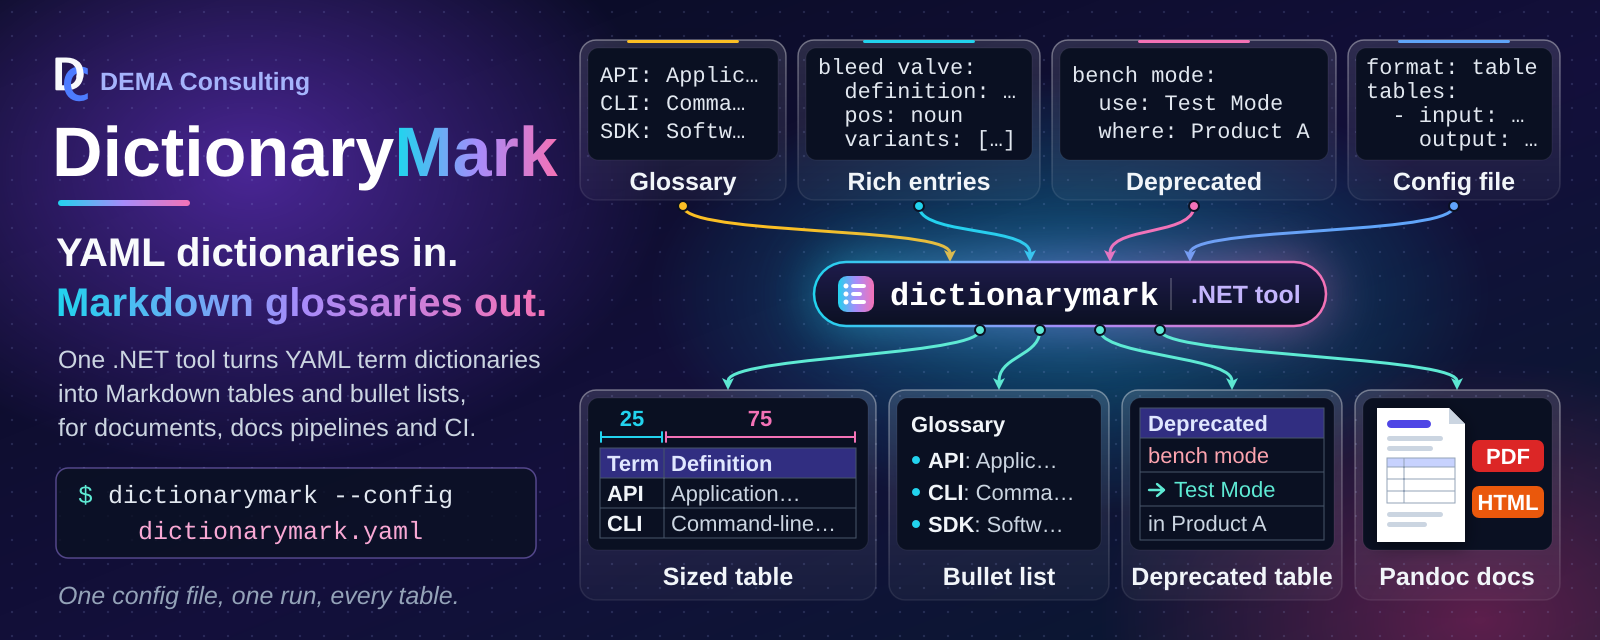
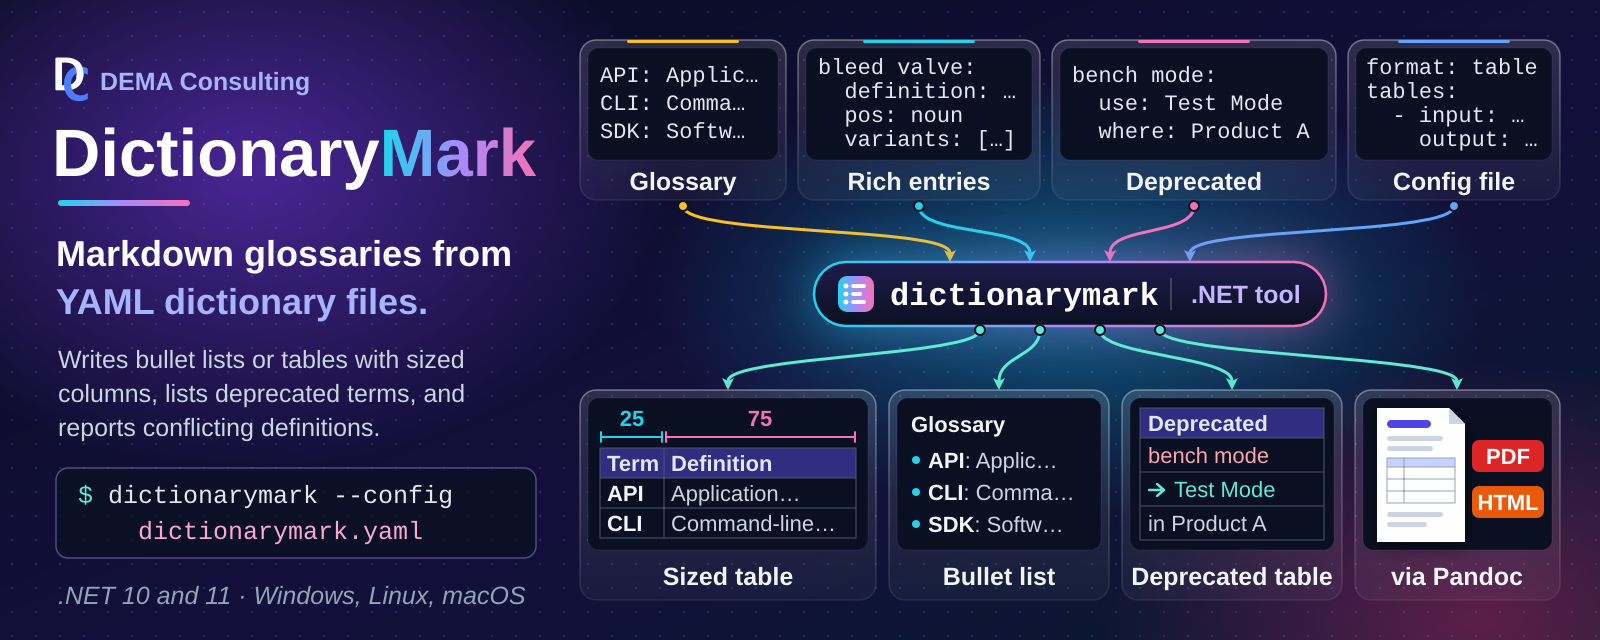
Sync agents/template and calm the README hero (#84)
* Sync shared agents, skills, and standards from Agents main

Includes docdown skill wording (#60), orchestrator Pull Requests section and planning Feasibility and Delivery (#62), SysML2 one-package-per-file guidance (#64), and the AGENTS.md Project Scripts section with fix.ps1/lint.ps1 removed from the protected list.

* Sync template: script CUSTOMIZATION headers, yamlfix comment setting, tool pins

- build/lint/fix.ps1: CUSTOMIZATION header replaces the old MODIFICATION POLICY text (template #63); script steps unchanged.
- .yamlfix.toml: comments_require_starting_space = false with the template notes (template #61, #59).
- .yamllint.yaml: no-limit line-length comment (template #59).
- LintMark 0.1.0-beta.3 and TextLint 0.1.0-beta.5 (template #59).

* Calm the README hero and make it the H1

Plain tagline 'Markdown glossaries from / YAML dictionary files.' (36px, solid), factual body and footnote, gradient kept only on 'Mark' and the underline, adaptive 67px wordmark, Pandoc card labelled 'via Pandoc' as downstream. README now starts with the hero as the H1 and the badges under it (template #66).

* Record the legacy SysML2 package layout as a standards exception

---------

diff --git a/.github/standards/sysml2-modeling.md b/.github/standards/sysml2-modeling.md
@@ -31,15 +31,15 @@ docs/sysml2/
 ├── common/
 │   └── software-items.sysml           # shared SoftwareItemMetadata::SoftwareInfo metadata def
 ├── model/
-│   ├── {system-name}.sysml            # system-level part def only (no subsystems/units inline)
+│   ├── {system-name}.sysml            # package {SystemName}; system-level part def only (no subsystems/units inline)
 │   ├── {system-name}/
-│   │   ├── {subsystem-name}.sysml     # subsystem part def; nests further for sub-subsystems
+│   │   ├── {subsystem-name}.sysml     # package {SystemName}_{SubsystemName}Subsystem; nests further for sub-subsystems
 │   │   └── {subsystem-name}/
-│   │       └── {unit-name}.sysml      # one file per unit
-│   ├── ots.sysml                      # OTS dependency parts (optional; if OTS items exist)
-│   └── shared.sysml                   # Shared Package parts (optional; if Shared Packages exist)
+│   │       └── {unit-name}.sysml      # package {SystemName}_{UnitName}; one file per unit
+│   ├── ots.sysml                      # package OtsDependencies: OTS parts (optional; if OTS items exist)
+│   └── shared.sysml                   # package SharedPackages: Shared Package parts (optional; if Shared Packages exist)
 └── views/
-    └── design-views.sysml             # named view usages rendered for the design document
+    └── design-views.sysml             # package {RepoName}DesignViews; named view usages rendered for the design document
 ```
 
 `docs/sysml2/common/software-items.sysml` defines the `SoftwareItemMetadata::SoftwareInfo`
@@ -62,14 +62,42 @@ so no single alias name would generalize. Agents discover the system(s) present 
 `docs/sysml2/**/*.sysml`, not by assuming a fixed name.
 
 Always pass the full set of `.sysml` files (or an equivalent glob) to every `sysml2tools`
-invocation — the model spans multiple files and cross-references between them; files sharing
-the same `package Name { ... }` merge into one namespace automatically with no `import`
-required, as long as all files are passed together. As of `sysml2tools` 0.1.0-beta.5,
+invocation — the model spans multiple files and cross-references between them, and a
+reference only resolves when the file declaring its target is loaded (see Package Structure
+below for how files reference each other). As of `sysml2tools` 0.1.0-beta.5,
 `lint` and `render` both expand `*`/`**` glob patterns internally (recursing correctly into
 subdirectories), so pass a single **quoted** glob string (e.g. `'docs/sysml2/**/*.sysml'`)
 and let the tool resolve it — do not rely on the shell to expand it, and do not quote-strip
 the pattern before it reaches the tool. Quoting keeps the behavior identical across
 PowerShell and bash, since neither shell needs to (or reliably does) expand `**` itself.
+
+## Package Structure
+
+SysML v2 has no package merging: each file is its own root namespace, and two root packages
+with the same name are duplicate members of the global namespace (the OMG Pilot
+Implementation reports "Duplicate of other owned member name" for each, and references across
+the halves do not resolve). A model that only loads because a tool is lenient is not portable,
+so:
+
+- Each `.sysml` file declares **exactly one uniquely named package**, and a package is never
+  declared (or "reopened") in more than one file.
+- Name each package from its place in the hierarchy, joined with an underscore:
+  `{SystemName}` for the system file, `{SystemName}_{SubsystemName}Subsystem` for a subsystem
+  (including a nested sub-subsystem, which is not prefixed with its parent subsystem), and
+  `{SystemName}_{UnitName}` for a unit. The system prefix keeps names unique across systems.
+  The shared files use `OtsDependencies` and `SharedPackages`, and the single views file uses
+  one repository-level package, `{RepoName}DesignViews` (not one per system).
+- Package names must be unique **repository-wide**. The short forms above are the default;
+  when one would collide (two `Storage` subsystems in different branches, or two units named
+  `Cache` in different subsystems), qualify it with the owning subsystem path, for example
+  `{SystemName}_{SubsystemName}_{UnitName}` (`Acme_Ingest_Cache` and `Acme_Query_Cache`).
+- Reference other files with an explicit `private import {PackageName}::*;` (a system or
+  subsystem file imports the package of each direct member so its `part` usages resolve; every
+  file that applies `SoftwareInfo` imports `SoftwareItemMetadata::*`).
+- Where an import would form a cycle (for example a unit that depends on a package that
+  already imports it), or for a one-off reference into another system, use the qualified name
+  instead, e.g. `dependency {UnitName} to {SystemName}_{OtherUnit}::{OtherUnit};`.
+  Import cycles raise a lint warning; qualified references do not.
 
 ## Model Content
 
@@ -174,11 +202,13 @@ Views control what gets rendered into diagrams for the design document. Use name
 **usages** (not `view def` **definitions**) — `expose` is only valid inside a usage:
 
 ```sysml
-package {SystemName} {
+package {RepoName}DesignViews {
     private import StandardViewDefinitions::*;
+    private import {SystemName}::*;
+    private import {SystemName}_{SubsystemName}Subsystem::*;
 
     view SoftwareStructureView : InterconnectionView {
-        expose {SystemName}::**;     // all members, recursively: system + subsystems + units
+        expose {SystemName}::{SystemName}System::**;  // system part def, recursively: subsystems + units
     }
 
     view {SystemName}View {
@@ -186,10 +216,12 @@ package {SystemName} {
     }
 
     view {SubsystemName}View {
-        expose {SubsystemName};      // one subsystem def only
+        expose {SubsystemName}Subsystem;      // one subsystem def only
     }
 }
 ```
+
+Views import (or qualify) every package whose members they expose, like any other file.
 
 Type `SoftwareStructureView` by a standard view definition from the SysML v2 Views library
 (`GeneralView`, `InterconnectionView`, ...; requires `sysml2tools` 0.3.0-beta.3+). The view
@@ -223,25 +255,27 @@ There is no dedicated `DependencyView`/`{SubsystemName}DependencyView` diagram c
 above), not rendered.
 
 When a repository has multiple systems, type `SoftwareStructureView` by `GeneralView`,
-expose each system package's members, and filter out documentation so the overview stays
-readable — the general view draws one package frame per system, while an interconnection
-view places all systems in a single row:
+expose each system's part def (and each subsystem's, by qualified name), and filter out
+documentation so the overview stays readable — the general view draws one package frame per
+system, while an interconnection view places all systems in a single row:
 
 ```sysml
 package {RepoName}DesignViews {
     private import StandardViewDefinitions::*;
 
     view SoftwareStructureView : GeneralView {
-        expose {SystemNameA}::**;
-        expose {SystemNameB}::**;
-        filter not @SysML::Documentation;
+        expose {SystemNameA}::{SystemNameA}System;
+        expose {SystemNameA}_{SubsystemName}Subsystem::{SubsystemName}Subsystem;
+        expose {SystemNameB}::{SystemNameB}System;
+        filter not (@SysML::Documentation);
     }
 }
 ```
 
 Documentation (`doc`) is exposed with its owner and drawn as a `doc` compartment unless a
-view filters it out; use `filter not @SysML::Documentation;` wherever doc text would clutter
-a diagram.
+view filters it out; use `filter not (@SysML::Documentation);` wherever doc text would clutter
+a diagram. The parentheses are required: the SysML v2 grammar does not accept the unparenthesized
+`filter not @SysML::Documentation;`.
 
 ## Diagram Embedding
 
@@ -313,6 +347,9 @@ sync.
   `sourceFiles`; the purpose statement appears only in the `doc` comment, never in `SoftwareInfo`
 - [ ] `docs/sysml2/views/design-views.sysml` uses `view Name { expose ...; }` usages, not
   `view def` definitions
+- [ ] Each `.sysml` file declares exactly one uniquely named package (never the same package
+  in two files), named per Package Structure, and references other files through
+  `private import` or qualified names (qualified where an import would form a cycle)
 - [ ] View names follow the `SoftwareStructureView` / `{SystemName}View` /
   `{SubsystemName}View` convention (no dedicated `DependencyView`)
 - [ ] Each Unit's real collaborators are captured as `dependency A to B;` statements, and each

diff --git a/.github/skills/sysml2tools-query/SKILL.md b/.github/skills/sysml2tools-query/SKILL.md
@@ -21,11 +21,15 @@ dotnet tool restore
 ## Model files
 
 - `docs/sysml2/model/{system-name}.sysml` — system-level `part def` only (no subsystems/units
-  inline). A repository may contain more than one system.
+  inline), in package `{SystemName}`. A repository may contain more than one system.
 - `docs/sysml2/model/{system-name}/{subsystem-name}.sysml` and
   `docs/sysml2/model/{system-name}/{subsystem-name}/{unit-name}.sysml` — one file per
   Subsystem/Unit, nested to mirror the same folder depth as that item's companion
-  `docs/design/`, `docs/reqstream/`, and `docs/verification/` files.
+  `docs/design/`, `docs/reqstream/`, and `docs/verification/` files. Each declares its own
+  uniquely named package; by default `{SystemName}_{SubsystemName}Subsystem` or
+  `{SystemName}_{UnitName}`, qualified with the subsystem path
+  (`{SystemName}_{SubsystemName}_{UnitName}`) when the short name would collide. An element's
+  qualified name is e.g. `{SystemName}_{UnitName}::{UnitName}`.
 - `docs/sysml2/model/ots.sysml` — off-the-shelf (OTS) dependency parts (present when OTS items
   exist).
 - `docs/sysml2/model/shared.sysml` — Shared Package parts (present when Shared Package items
@@ -35,9 +39,10 @@ dotnet tool restore
   useful to see how diagrams are scoped.
 
 Always pass all `.sysml` files (or a glob covering them) to every `sysml2tools`
-invocation — the model spans multiple files and cross-references between them; files that
-reopen the same `package Name { ... }` from different files merge into one namespace
-automatically, no `import` required. As of `sysml2tools` 0.1.0-beta.5, every subcommand
+invocation — the model spans multiple files and cross-references between them (each file
+declares one uniquely named package and references others through `import` or qualified
+names; same-named packages in different files are not merged), so every file a reference
+points at must be loaded. As of `sysml2tools` 0.1.0-beta.5, every subcommand
 (`lint`, `render`, `query`) expands `*`/`**` glob patterns internally and recurses
 correctly — pass a single **quoted** glob string and let the tool resolve it, rather than
 relying on the shell (quoting works identically in both PowerShell and bash):
@@ -57,7 +62,7 @@ summary line, so one query gets you every artifact location for that item withou
 the source tree:
 
 ```pwsh
-dotnet sysml2tools query describe -e {SystemName}::{UnitName} 'docs/sysml2/**/*.sysml'
+dotnet sysml2tools query describe -e {SystemName}_{UnitName}::{UnitName} 'docs/sysml2/**/*.sysml'
 ```
 
 ```text

diff --git a/README.md b/README.md
@@ -1,4 +1,4 @@
-# DictionaryMark
+# ![DictionaryMark: Markdown glossaries from YAML dictionary files. Writes bullet lists or tables with sized columns, lists deprecated terms, and reports conflicting definitions. Shown with the command 'dictionarymark --config dictionarymark.yaml' and the note '.NET 10 and 11, Windows, Linux, macOS'. A YAML glossary, rich entries with definition, pos and variants, deprecated terms with use and where, and a configuration file of table jobs flow into the dictionarymark .NET tool, and arrows lead out to a Markdown table with 25 to 75 column widths, a bullet list, and a deprecated-terms table; a fourth card shows PDF and HTML documents made from that Markdown downstream by Pandoc][hero]
 
 <!-- IMPORTANT: All links in this file must be absolute URLs.
      This file is distributed in packages and relative links will not resolve. -->
@@ -11,12 +11,6 @@
 [![Quality Gate](https://sonarcloud.io/api/project_badges/measure?project=demaconsulting_DictionaryMark&metric=alert_status)](https://sonarcloud.io/dashboard?id=demaconsulting_DictionaryMark)
 [![Security](https://sonarcloud.io/api/project_badges/measure?project=demaconsulting_DictionaryMark&metric=security_rating)](https://sonarcloud.io/dashboard?id=demaconsulting_DictionaryMark)
 [![NuGet](https://img.shields.io/nuget/v/DemaConsulting.DictionaryMark?style=plastic)](https://www.nuget.org/packages/DemaConsulting.DictionaryMark)
-
-![DictionaryMark banner: the DictionaryMark name with the tagline 'YAML dictionaries in. Markdown glossaries out.'
-and the command 'dictionarymark --config dictionarymark.yaml'. A YAML glossary, rich entries with definition, pos
-and variants, deprecated terms with use and where, and a configuration file of table jobs flow on curved arrows into
-the dictionarymark .NET tool, and arrows lead out to a Markdown table with 25 to 75 column widths, a bullet list, a
-deprecated-terms table, and Pandoc documents in PDF and HTML][hero]
 
 ## Overview
 

diff --git a/AGENTS.md b/AGENTS.md
@@ -159,10 +159,30 @@ requires it and the modification preserves the documented design intent:
 
 - `.reviewmark.yaml`, `.textlint.yaml`, `.editorconfig`
 - `.lintmark.yaml`, `.yamllint.yaml`
-- `requirements.yaml`, `fix.ps1`, `lint.ps1`
+- `requirements.yaml`
+
+# Project Scripts
+
+`build.ps1`, `lint.ps1`, and `fix.ps1` belong to the project: extend them as it grows. Add project-specific
+steps, update tool versions, and add optional parameters that focus a run (for example one library in a
+multi-library repository, or headless tests without GUI automation). Two rules keep them trustworthy:
+
+- Run with no arguments, each script still does its full job (CI and the agents rely on that); slow or
+  environment-dependent test tiers may be opt-in switches of `build.ps1`.
+- Never remove or weaken a check to make lint or tests pass.
 
 # Continuous Compliance Overview
 
 This repository follows the [Continuous Compliance](https://github.com/demaconsulting/ContinuousCompliance)
 approach. Tools: **ReqStream** (requirements traceability), **ReviewMark** (file review enforcement),
 **BuildMark** (tool versions), **VersionMark** (version tracking).
+
+# Repository-Specific Standards Exceptions
+
+## SysML2 package structure (legacy layout, migration pending)
+
+The model under `docs/sysml2/` still uses the earlier layout: package `DictionaryMark` is reopened in 22 model files
+and in `views/design-views.sysml` (no `DictionaryMarkDesignViews`); `OtsDependencies` and `SoftwareItemMetadata` already
+match. The Package Structure rules in `sysml2-modeling.md` and the matching qualified-name examples in the
+`sysml2tools-query` skill apply once the model is migrated in a dedicated PR. Until then, query and extend the model
+using the existing package names, and do not partially restructure it.

diff --git a/.github/skills/docdown/SKILL.md b/.github/skills/docdown/SKILL.md
@@ -21,7 +21,9 @@ dotnet docdown --help
 
 ## Scratch Folder
 
-The default `--overwrite clean` deletes everything in the scratch folder, so always pass a new
+The default `--overwrite clean` only replaces an earlier DocDown extraction: it deletes the files that
+folder's DocDown manifest lists and refuses to run if the folder holds anything else
+(`--overwrite overwrite` deletes everything and is never needed here). Still, always pass a new
 subfolder dedicated to the one document - never an existing folder:
 
 - **Preferred**: the agent session folder, when the host provides one, for example
@@ -39,8 +41,9 @@ Never extract into the repository.
    dotnet docdown --input path/to/data-sheet.pdf --scratch {scratch}/data-sheet
    ```
 
-   The last line of output is the path to `summary.txt`. Exit code `1` means the document was
-   unreadable or an argument was bad.
+   The last line of output is the path to `summary.txt`. Exit code `1` means the run failed for an
+   expected reason - an unreadable document, a bad argument, or an option such as `--log` whose file
+   could not be opened; the message says which.
 
 2. Read `summary.txt` first: what was extracted, what is where, and notes on anything that could
    not be read.

diff --git a/.github/agents/orchestrator.agent.md b/.github/agents/orchestrator.agent.md
@@ -48,3 +48,16 @@ briefly, what you loaded.
   let the user answer in their own words. Do not batch decisions into structured question forms (such as an
   `ask_user` tool); they strip away the context the user needs to decide and turn the session into a
   questionnaire.
+
+# Pull Requests (MANDATORY)
+
+Aim for pull requests that each merge one complete, useful change that could be cherry-picked on its own.
+
+- Before starting work that could span more than one pull request, propose the grouping and let the user
+  decide. The user may split it, or combine several small requests into one pull request.
+- When splitting, split by behavior, not by layer or file type: each part carries its own code, tests,
+  requirements, and docs, builds and passes alone, and leaves no stubs or dead code for a later part.
+- Deliver parts in order: start the next part from main only after the previous one merges.
+- Review fixes, lint fixes, and follow-ups go into the open pull request they belong to, not a new one.
+- Sub-agents work on the agreed branch and do not open pull requests; you decide when it is complete.
+- Keep mechanical churn (formatting, renames, generated files) in its own commit so reviewers can skip it.

diff --git a/.github/agents/planning.agent.md b/.github/agents/planning.agent.md
@@ -52,10 +52,13 @@ Repeat up to 2 more times, stopping when the plan is stable.
 
 List up to 5 risks with a brief mitigation for each.
 
-## Step 6 — Feasibility Assessment
+## Step 6 — Feasibility and Delivery
 
 State whether this can be implemented in a single development pass and any
-preconditions that affect feasibility.
+preconditions that affect feasibility. Propose how the work groups into pull
+requests: one complete, useful change per pull request where possible; if it
+should be split, list ordered parts that are split by behavior (not by layer or
+file type) and each build, pass, and deliver something on their own.
 
 ## Step 7 — Recommendation
 
@@ -108,9 +111,12 @@ Then respond to the caller with ONLY the lean structured summary below.
 
 1. **[severity]** {risk} — {mitigation}
 
-## Feasibility Assessment
+## Feasibility and Delivery
 
 {Single-pass or not, and why. Any preconditions.}
+
+{Proposed pull-request grouping: one pull request, or ordered parts split by behavior,
+each with what it delivers on its own.}
 
 ## Unknowns
 
